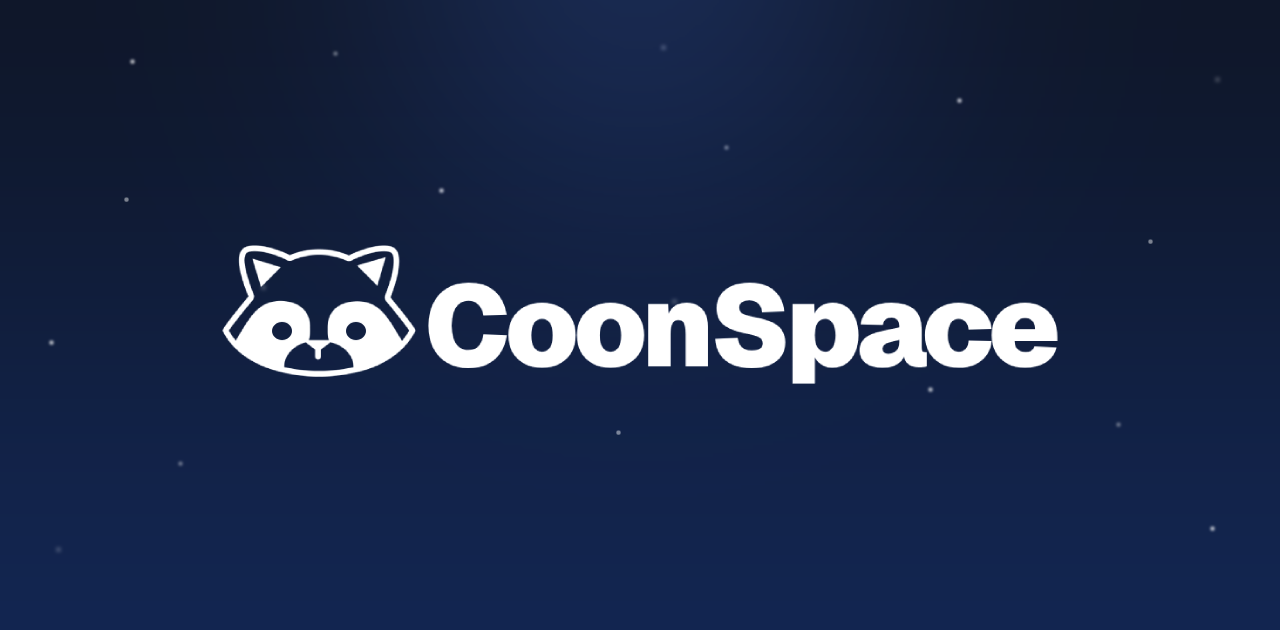
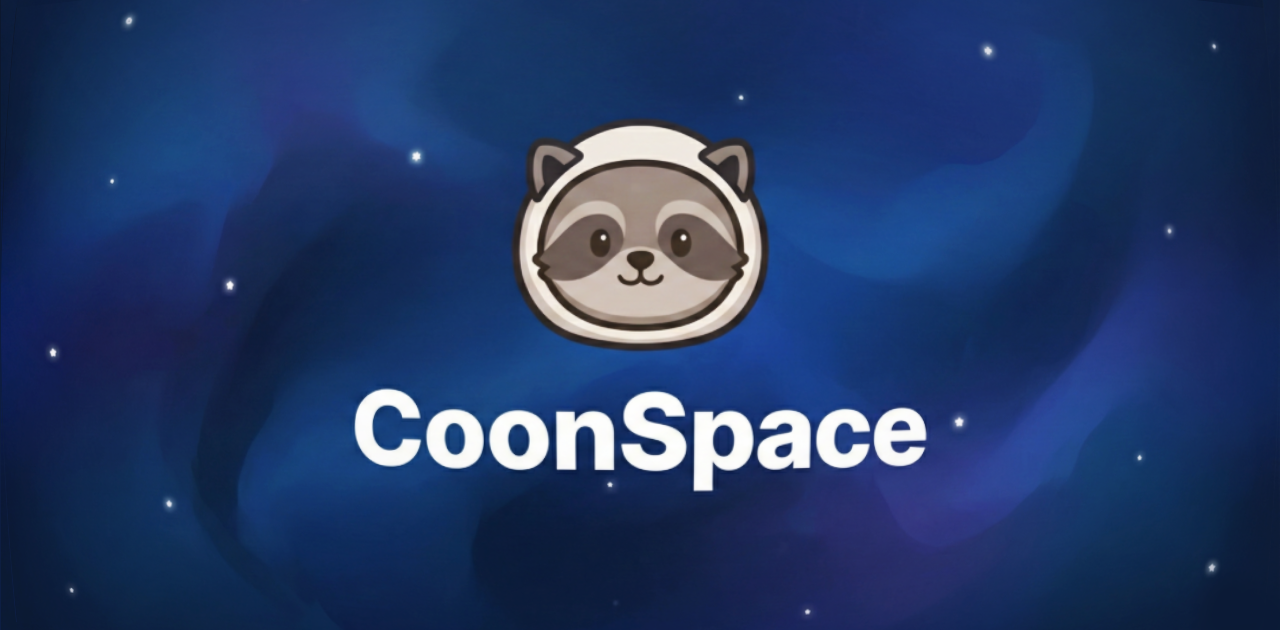
Updated assets and env management

diff --git a/src/env.js b/src/env.js
@@ -12,8 +12,6 @@ export const env = createEnv({
     DATABASE_AUTH_TOKEN: z.string(),
     CLERK_SIGNING_SECRET: z.string(),
     UPLOADTHING_TOKEN: z.string(),
-    UPSTASH_REDIS_REST_URL: z.string(),
-    UPSTASH_REDIS_REST_TOKEN: z.string(),
     NODE_ENV: z
       .enum(["development", "test", "production"])
       .default("development"),
@@ -49,9 +47,6 @@ export const env = createEnv({
     UPLOADTHING_TOKEN: process.env.UPLOADTHING_TOKEN,
     NEXT_PUBLIC_POSTHOG_KEY: process.env.NEXT_PUBLIC_POSTHOG_KEY,
     NEXT_PUBLIC_POSTHOG_HOST: process.env.NEXT_PUBLIC_POSTHOG_HOST,
-    UPSTASH_REDIS_REST_URL: process.env.UPSTASH_REDIS_REST_URL,
-    UPSTASH_REDIS_REST_TOKEN: process.env.UPSTASH_REDIS_REST_TOKEN,
-    // NEXT_PUBLIC_CLIENTVAR: process.env.NEXT_PUBLIC_CLIENTVAR,
   },
   /**
    * Run `build` or `dev` with `SKIP_ENV_VALIDATION` to skip env validation. This is especially

diff --git a/README.md b/README.md
@@ -2,7 +2,7 @@
 
 <p align="center">A free and open-source platform for sharing markdown notes instantly. Simply drag and drop your markdown files, get a permalink, and share with anyone.</p>
 
-![CoonSpace Banner](https://i.postimg.cc/pr3DzjLw/109shots-so.png)
+![CoonSpace Banner](https://i.ibb.co/j9xCWKS5/482-1x-shots-so.png)
 
 
 ## 🚀 Features
@@ -16,20 +16,19 @@
 
 ## 🛠 Tech Stack
 
-- **Next.js 14** - React framework with App Router
+- **Next.js 15** - React framework with App Router
 - **TypeScript** - Type-safe code
 - **Tailwind CSS** - Utility-first styling
 - **Clerk** - Authentication and user management
 - **Turso** - SQLite database for edge computing
 - **UploadThing** - File storage and management
 - **PostHog** - Privacy-friendly analytics
-- **Upstash** - Rate limiting to prevent abuse
 
 ## 🏁 Getting Started
 
 ### Prerequisites
 
-- Node.js 18+
+- Node.js 20+
 - bun (recommended) or pnpm/npm/yarn
 - Accounts for the following services:
   - [Clerk](https://clerk.dev) (Authentication)
@@ -48,7 +47,7 @@
 
 2. **Install dependencies**
    ```bash
-   pnpm install
+   bun install
    ```
 
 3. **Set up environment variables**
@@ -61,14 +60,13 @@
    - Turso database URL and auth token
    - UploadThing API keys
    - PostHog project API key
-   - Upstash redis keys
 
 4. **Set up Clerk webhook**
    Create a webhook in the Clerk dashboard and point it to `yourdomain.com/api/webhook/clerk`. This is essential for handling user deletion correctly, otherwise notes from deleted users will remain in the app. [More information on Clerk webhooks](https://clerk.com/docs/users/sync-data-to-your-backend)
 
 5. **Run the development server**
    ```bash
-   pnpm dev
+   bun dev
    ```
 
 6. **Open [http://localhost:3000](http://localhost:3000)** to see the app running
